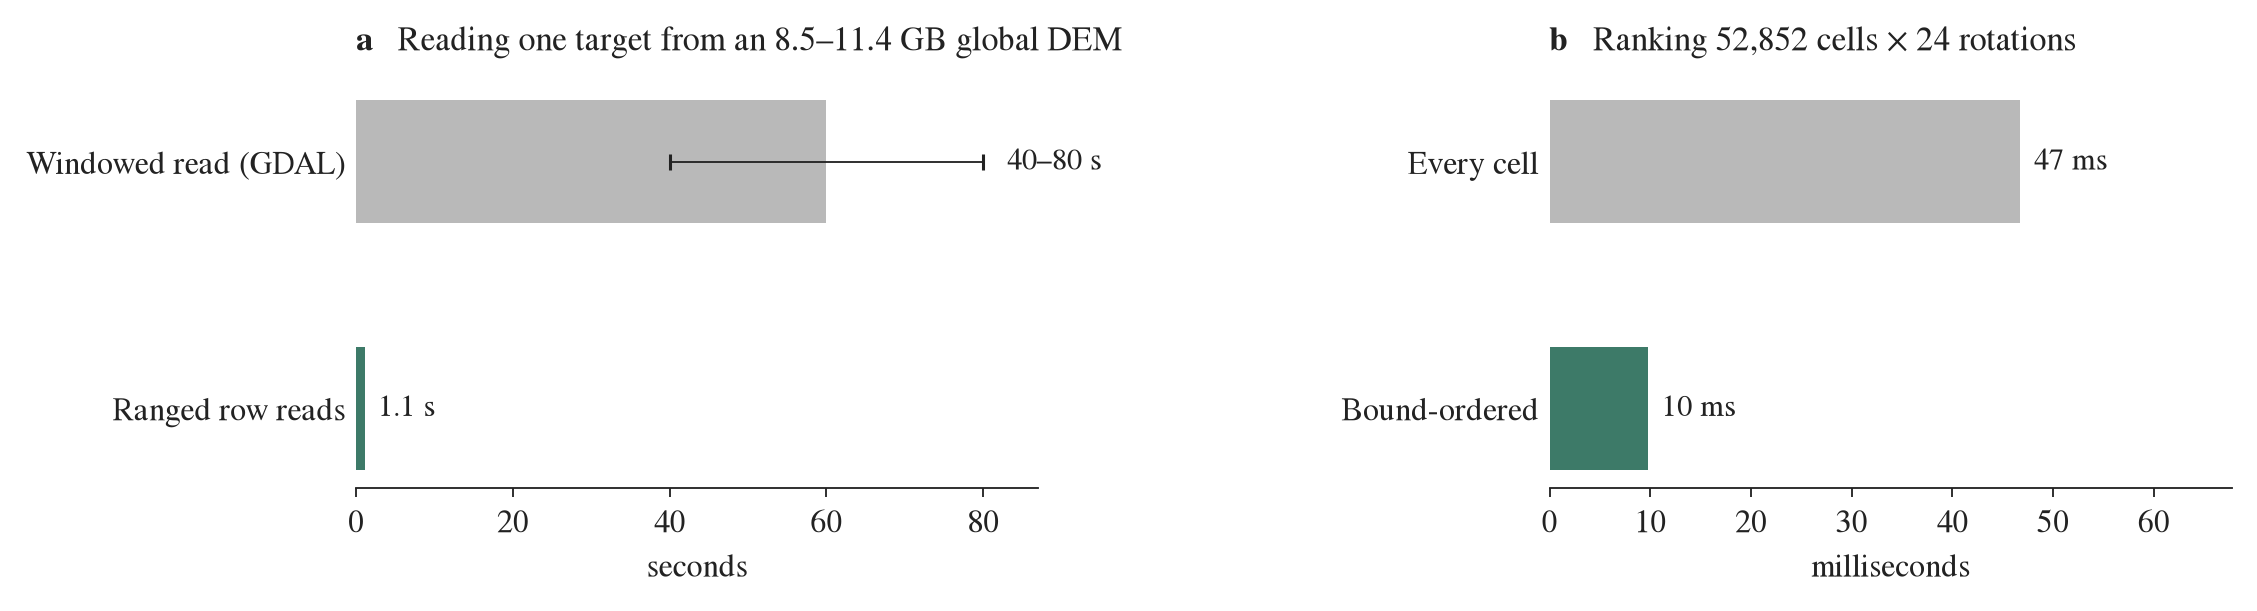
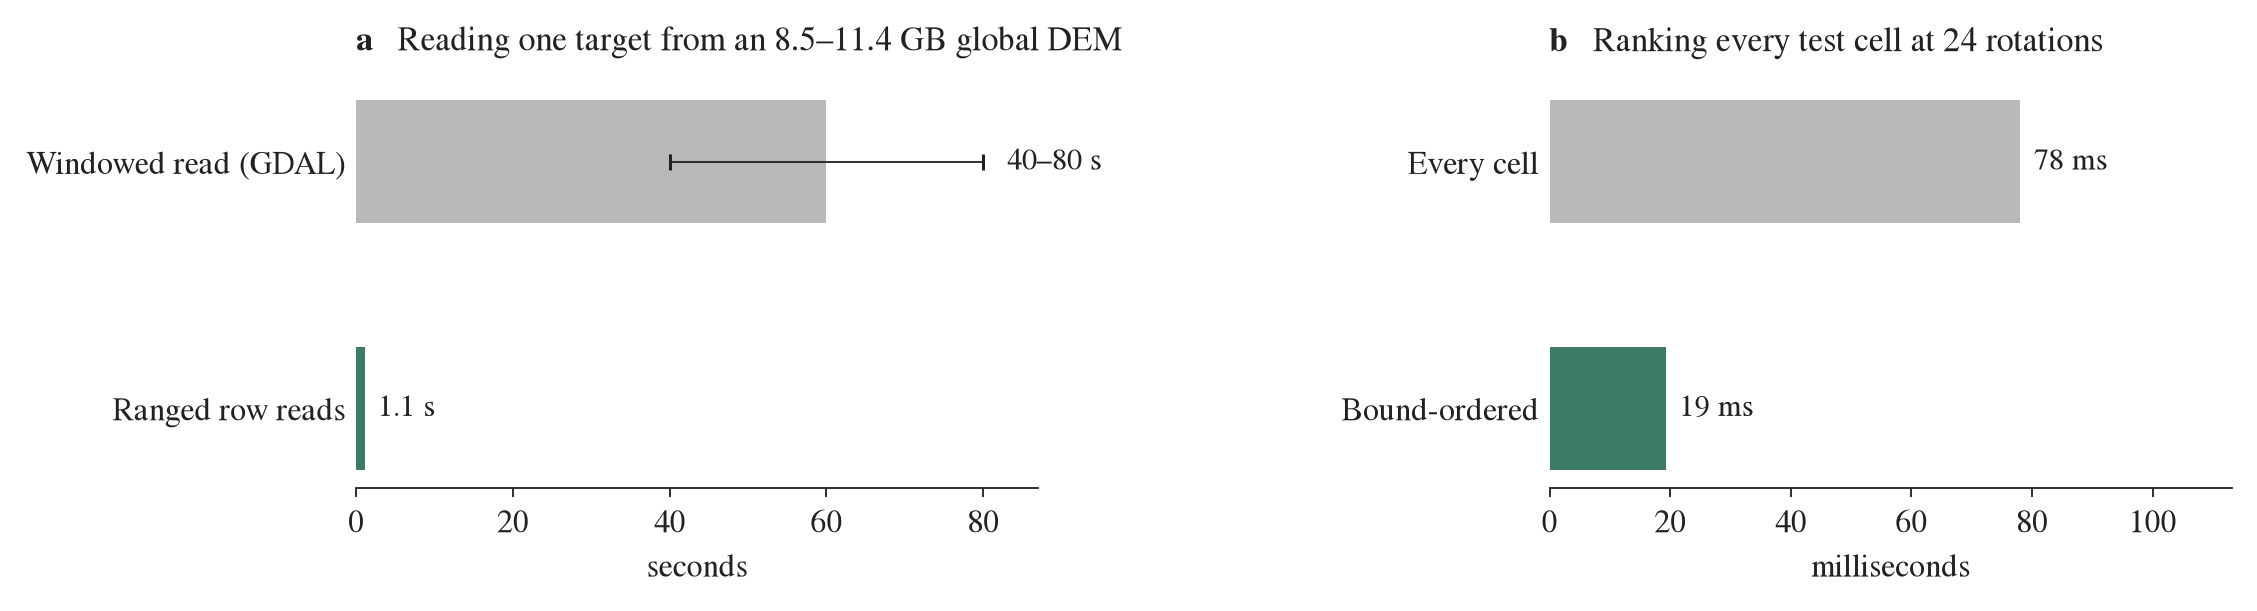
Write-up: method stated generally; Nevada only as the test region

diff --git a/search/paper_figures.py b/search/paper_figures.py
@@ -3,7 +3,7 @@ Figures for the research write-up, generated from the live search code and data.
 
     .venv/Scripts/python -X utf8 paper_figures.py   # -> ../docs/science/figures/*.png, numbers.json
 
-Every number in the figures is measured here, on the same 52,852 Nevada cells the app searches.
+Every number in the figures is measured here, on the test region the app searches (52,852 Earth cells).
 One idea per figure; equations are typeset where they carry the idea.
 """
 
@@ -118,7 +118,7 @@ def fig_method():
     stages = [
         ("Target", "any point on the Moon or Mars", [r"$z_T(\varphi, \lambda)$"]),
         ("Descriptor", "5.16 km² disk of 200 m pixels", [r"$\mathbf{t}_\theta = z_T - \bar{z}_T$", r"$\theta = 0°, 15°, \ldots, 345°$"]),
-        ("Filter", "limits on 52,852 Earth cells", [r"$\ell_k \leq x_{c,k} \leq u_k$"]),
+        ("Filter", "limits on measured Earth values", [r"$\ell_k \leq x_{c,k} \leq u_k$"]),
         ("Rank", "best rotation, smallest distance", [r"$d(T,c) = \min_\theta\, \mathrm{RMSE}(\mathbf{t}_\theta, \mathbf{c})$"]),
         ("Report", "8 sites, at least 25 km apart", ["holds and breaks,", "in measured units"]),
     ]
@@ -152,7 +152,7 @@ def fig_descriptor():
         if k == 0:
             fig.text(axr.get_position().x0, 0.97, r"$\mathbf{b}$   Rotations, every 15° (6 of 24 shown)", fontsize=11, va="top")
     axm = fig.add_subplot(gs[0, 9]); disk(axm, api.PATCHES[i], lim, ring=EARTH, lw=1.0)
-    fig.text(axm.get_position().x0, 0.97, r"$\mathbf{c}$   Closest Nevada cell", fontsize=11, va="top")
+    fig.text(axm.get_position().x0, 0.97, r"$\mathbf{c}$   Closest Earth cell", fontsize=11, va="top")
     under(axm, f"RMSE {e:.1f} m at θ = {int(ANGLES[o])}°", f"{api.LAT[i]:.2f}° N, {abs(api.LON[i]):.2f}° W")
     eq = fig.add_subplot(gs[1, 2:8]); eq.axis("off")
     eq.text(0.5, 0.35, r"$d(T,c) \;=\; \min_{\theta}\ \sqrt{\frac{1}{N}\sum_{i=1}^{N}\left(t_\theta(i) - c(i)\right)^2}, \qquad N = 137$",
@@ -186,7 +186,7 @@ def fig_matches():
             axs.append(ax)
         if r == 0:
             ax0.set_title("Target", loc="left")
-            axs[0].set_title("Three closest distinct Nevada cells, RMSE", loc="left")
+            axs[0].set_title("Three closest distinct Earth cells", loc="left")
         NUM["matches"][name] = {"relief_m": round(s, 1), "best_m": [round(e, 2) for _, e, _ in best],
                                 "median_m": round(float(np.median(all_r)), 1), "pct_within_2x_best": round(float((all_r < 2 * best[0][1]).mean() * 100), 2)}
     save(fig, "03_matches.png")
@@ -224,7 +224,7 @@ def fig_recovery():
     ax.set_ylim(0, 105), ax.set_ylabel("share of queries (%)")
     ax.set_xlabel(r"relief of the query cell, $\sigma$")
     ax.legend(loc="upper left")
-    ax.set_title("A rotated, noisy cell finds itself among 52,852", loc="left")
+    ax.set_title("A rotated, noisy cell finds itself", loc="left")
     save(fig, "04_recovery.png")
     NUM["recovery"] = {"top1": round(float(np.mean(ranks == 1)), 3), "top10": round(float(np.mean(ranks <= 10)), 3),
                        "fits_as_well": round(float(np.mean(fit)), 3), "by_relief_top1": [round(v, 1) for v in t1], "n": ns}
@@ -288,7 +288,7 @@ def fig_speed():
     for ax, vals, labs, unit, title, letter, txt in [
         (a, [60, t_dem], ["Windowed read (GDAL)", "Ranged row reads"], "seconds", "Reading one target from an 8.5–11.4 GB global DEM", "a",
          ["40–80 s", f"{t_dem:.1f} s"]),
-        (b, [pr["ms_brute_median"], pr["ms_pruned_median"]], ["Every cell", "Bound-ordered"], "milliseconds", "Ranking 52,852 cells × 24 rotations", "b",
+        (b, [pr["ms_brute_median"], pr["ms_pruned_median"]], ["Every cell", "Bound-ordered"], "milliseconds", "Ranking every test cell at 24 rotations", "b",
          [f"{pr['ms_brute_median']:.0f} ms", f"{pr['ms_pruned_median']:.0f} ms"]),
     ]:
         ax.barh([1, 0], vals, color=[LIGHT, EARTH], height=0.5)

diff --git a/docs/science/README.md b/docs/science/README.md
@@ -6,7 +6,9 @@
 
 ## In one paragraph
 
-Given any point on the Moon or Mars, the system finds places on Earth where the ground has the same shape at the same physical scale, then measures how each place compares in climate and surface material. Shape is compared over a 5.16 km² disk, as the root-mean-square height difference after rotating the target to fit. The search is exact, takes about 10 ms over 52,852 Earth cells, and reads the planetary terrain live from 8–11 GB global elevation models in about one second. Each result states where the analogy holds and where it breaks, in measured units.
+Given any point on the Moon or Mars, the system finds places on Earth where the ground has the same shape at the same physical scale, then measures how each place compares in climate and surface material. Shape is compared over a 5.16 km² disk, as the root-mean-square height difference after rotating the target to fit. The search is exact, costs about 0.2 µs per Earth cell, and reads the planetary terrain live from 8–11 GB global elevation models in about one second. Each result states where the analogy holds and where it breaks, in measured units.
+
+*Numbers quoted below are measured on a test region of 52,852 cells (Nevada). Nothing in the method is specific to it.*
 
 ![Method](figures/01_method.png)
 *Figure 1. The method in five steps. A target point becomes a set of rotated height patterns; Earth cells that pass the user's limits are ranked by their distance to the closest rotation; the best distinct sites are reported with their measured differences.*
@@ -38,7 +40,7 @@ The distance between a target *T* and an Earth cell *c* is
 that is, the target is turned in 15° steps and the best fit is kept. The result is in metres and is easy to read: "the two surfaces differ by 5 m on average over the disk".
 
 ![Descriptor](figures/02_descriptor.png)
-*Figure 2. (a) The Jezero delta target, from the HRSC + MOLA elevation model. (b) The same disk at several rotations. (c) The closest Nevada cell fits the target turned 210° to within 5.0 m, against 16.2 m of relief in the target itself.*
+*Figure 2. (a) The Jezero delta target, from the HRSC + MOLA elevation model. (b) The same disk at several rotations. (c) The closest Earth cell fits the target turned 210° to within 5.0 m, against 16.2 m of relief in the target itself.*
 
 Design choices, briefly:
 - **Same physical size on every body.** Using Earth-sized cells everywhere keeps the comparison in real metres.
@@ -51,19 +53,19 @@ Design choices, briefly:
 
 **Takeaway: strong matches stand out clearly, and weak ones are reported as weak.**
 
-The pilot searches all of Nevada: 52,852 cells.
+Measured on the test region of 52,852 cells.
 
 ![Matches](figures/03_matches.png)
-*Figure 3. Three targets and their three closest Nevada cells, at least 25 km apart and drawn on the same height scale. Below each Earth cell: its RMSE and its score.*
+*Figure 3. Three targets and their three closest Earth cells, at least 25 km apart and drawn on the same height scale. Below each Earth cell: its RMSE and its score.*
 
-| Target | Target relief σ | Best match | Typical Nevada cell | Score |
+| Target | Target relief σ | Best match | Typical cell | Score |
 |---|---:|---:|---:|---:|
 | Hadley Rille, Moon | 11.7 m | 2.3 m | 26.1 m | 96% |
 | Jezero delta, Mars | 16.2 m | 5.0 m | 24.8 m | 91% |
 | Shackleton rim, Moon | 32.2 m | 15.6 m | 30.6 m | 79% |
 
 - **Hadley Rille** has a highly specific match: the best cell is eleven times closer than a typical one, and fewer than 4% of cells come within twice that distance.
-- **Shackleton** does not. The best cell is only twice as close as a typical one. Nevada has no ground shaped like a south-polar crater rim at this scale, and the lower score says so.
+- **Shackleton** does not. The best cell is only twice as close as a typical one. The test region has no ground shaped like a south-polar crater rim at this scale, and the lower score says so.
 
 ---
 
@@ -71,7 +73,7 @@ The pilot searches all of Nevada: 52,852 cells.
 
 **Takeaway: given a place it should find, it finds it 85% of the time, and 99% of the time when the ground has real relief.**
 
-To test this we need a case where the correct answer is known. We took 300 random Nevada cells, turned each by a random angle, added 2 m of random height noise, and searched for them among all 52,852.
+To test this we need a case where the correct answer is known. We took 300 random cells from the test region, turned each by a random angle, added 2 m of random height noise, and searched for them among all of its cells.
 
 ![Recovery](figures/04_recovery.png)
 *Figure 4. How often the original cell comes back first (bars) or in the top 10 (marks), by how much relief the cell has.*
@@ -91,16 +93,16 @@ Comparing 137 heights at 24 rotations against every cell is wasteful. Two quanti
 A cell whose relief is very different from the target's cannot be a close match. The search therefore visits cells in order of this lower bound and stops as soon as the bound exceeds the 50th-best distance found so far.
 
 ![Pruning](figures/05_pruning.png)
-*Figure 5. (a) For every Nevada cell, the bound never exceeds the true distance (no exceptions among 52,852). Only cells left of the dashed line (green) need to be compared. (b) The share of cells compared exactly, for seven targets. The search works in blocks of 4,096 cells, so 8% is the minimum.*
+*Figure 5. (a) For every test cell, the bound never exceeds the true distance (no exceptions among 52,852). Only cells left of the dashed line (green) need to be compared. (b) The share of cells compared exactly, for seven targets. The search works in blocks of 4,096 cells, so 8% is the minimum.*
 
-The results are identical to comparing every cell, for all seven targets. The comparison itself is a single matrix product in double precision; single precision was tried and gave slightly different rankings, because small distances come from subtracting large sums.
+The results are identical to comparing every cell, for all seven targets. Cost grows linearly with the number of cells: about 0.9 µs per cell when every cell is compared, and 0.2 µs with the bound. The comparison itself is a single matrix product in double precision; single precision was tried and gave slightly different rankings, because small distances come from subtracting large sums.
 
 ### Reading the Moon and Mars on demand
 
 The global elevation models are single files of 8.5 GB (Moon) and 11.4 GB (Mars). A standard windowed read over the web took 40 to 80 seconds per target. Because both files store each image row uncompressed, one after another, the position of any pixel in the file can be calculated directly. The system downloads only the 40–60 short row segments it needs, in parallel.
 
 ![Speed](figures/06_speed.png)
-*Figure 6. (a) Reading one target's terrain. (b) Ranking every Nevada cell at every rotation, with and without the bound.*
+*Figure 6. (a) Reading one target's terrain. (b) Ranking every test cell at every rotation, with and without the bound.*
 
 As a result, **any** point on either body can be searched, not only a prepared list, and no planetary data has to be stored.
 
@@ -111,7 +113,7 @@ As a result, **any** point on either body can be searched, not only a prepared l
 **Takeaway: each candidate also carries measurements that can be compared with the target's directly.**
 
 ![Layers](figures/07_layers.png)
-*Figure 7. Three of the per-cell measurements across Nevada.*
+*Figure 7. Three of the per-cell measurements, across the test region.*
 
 | Dimension | Earth | Moon and Mars |
 |---|---|---|
@@ -142,7 +144,7 @@ The match is shown as a percentage, scaled by the target's own relief:
 Matching a flat plain to within 5 m is unremarkable; matching a 30 m rim to within 5 m is close. When a user asks for "match ≥ 90%", the limit becomes a cap on RMSE for that particular target, and the search applies it directly.
 
 ![Score](figures/08_score.png)
-*Figure 9. The score as a function of RMSE, and the RMSE cap each limit implies. Against Jezero, only 1 Nevada cell reaches 90% and 13,753 reach 50%.*
+*Figure 9. The score as a function of RMSE, and the RMSE cap each limit implies. Against Jezero, only 1 test cell reaches 90% and 13,753 reach 50%.*
 
 ### Filters first, then near misses
 
@@ -163,15 +165,14 @@ If the model is unavailable, the panel falls back to rule-based text built from 
 *Figure 10. Choosing a target: a named site or any point dropped on the globe.*
 
 ![A result](figures/11_app_site.jpg)
-*Figure 11. A result: Sentinel-2 imagery of the Nevada site with the matched disk outlined; the two terrain disks side by side; the verdict, with where the analogy holds and breaks.*
+*Figure 11. A result: Sentinel-2 imagery of the site with the matched disk outlined; the two terrain disks side by side; the verdict, with where the analogy holds and breaks.*
 
 ---
 
 ## 8. Limitations
 
-- **One region so far.** The candidates are Nevada's 52,852 cells. Extending to the world needs the team's land mask (cells free of water, dense vegetation and human footprint). The method and code do not change; search time grows with the number of cells and is reduced by the bound.
 - **One scale.** With 200 m pixels over a 2.6 km disk, the method sees landforms from roughly 400 m to 2.5 km. It misses boulders, small craters and narrow channels, and anything larger than a cell.
-- **Elevation quality varies.** Where HRSC coverage is missing, the Mars model falls back to MOLA at about 460 m. Copernicus GLO-90 is a surface model that includes vegetation and buildings; this matters little in Nevada, more elsewhere.
+- **Elevation quality varies.** Where HRSC coverage is missing, the Mars model falls back to MOLA at about 460 m. Copernicus GLO-90 is a surface model that includes vegetation and buildings; this matters little on bare arid ground, more where there is vegetation.
 - **Coarse climate.** Earth climate is a 10° grid. It contrasts a region with the target well but cannot separate neighbouring sites.
 - **Soil, not rock.** WRB groups describe soil formation. Linking them to planetary materials is an interpretation and is labelled as one.
 - **Flat ground is ambiguous.** Below about 3 m of relief, many places match equally well (section 4).
